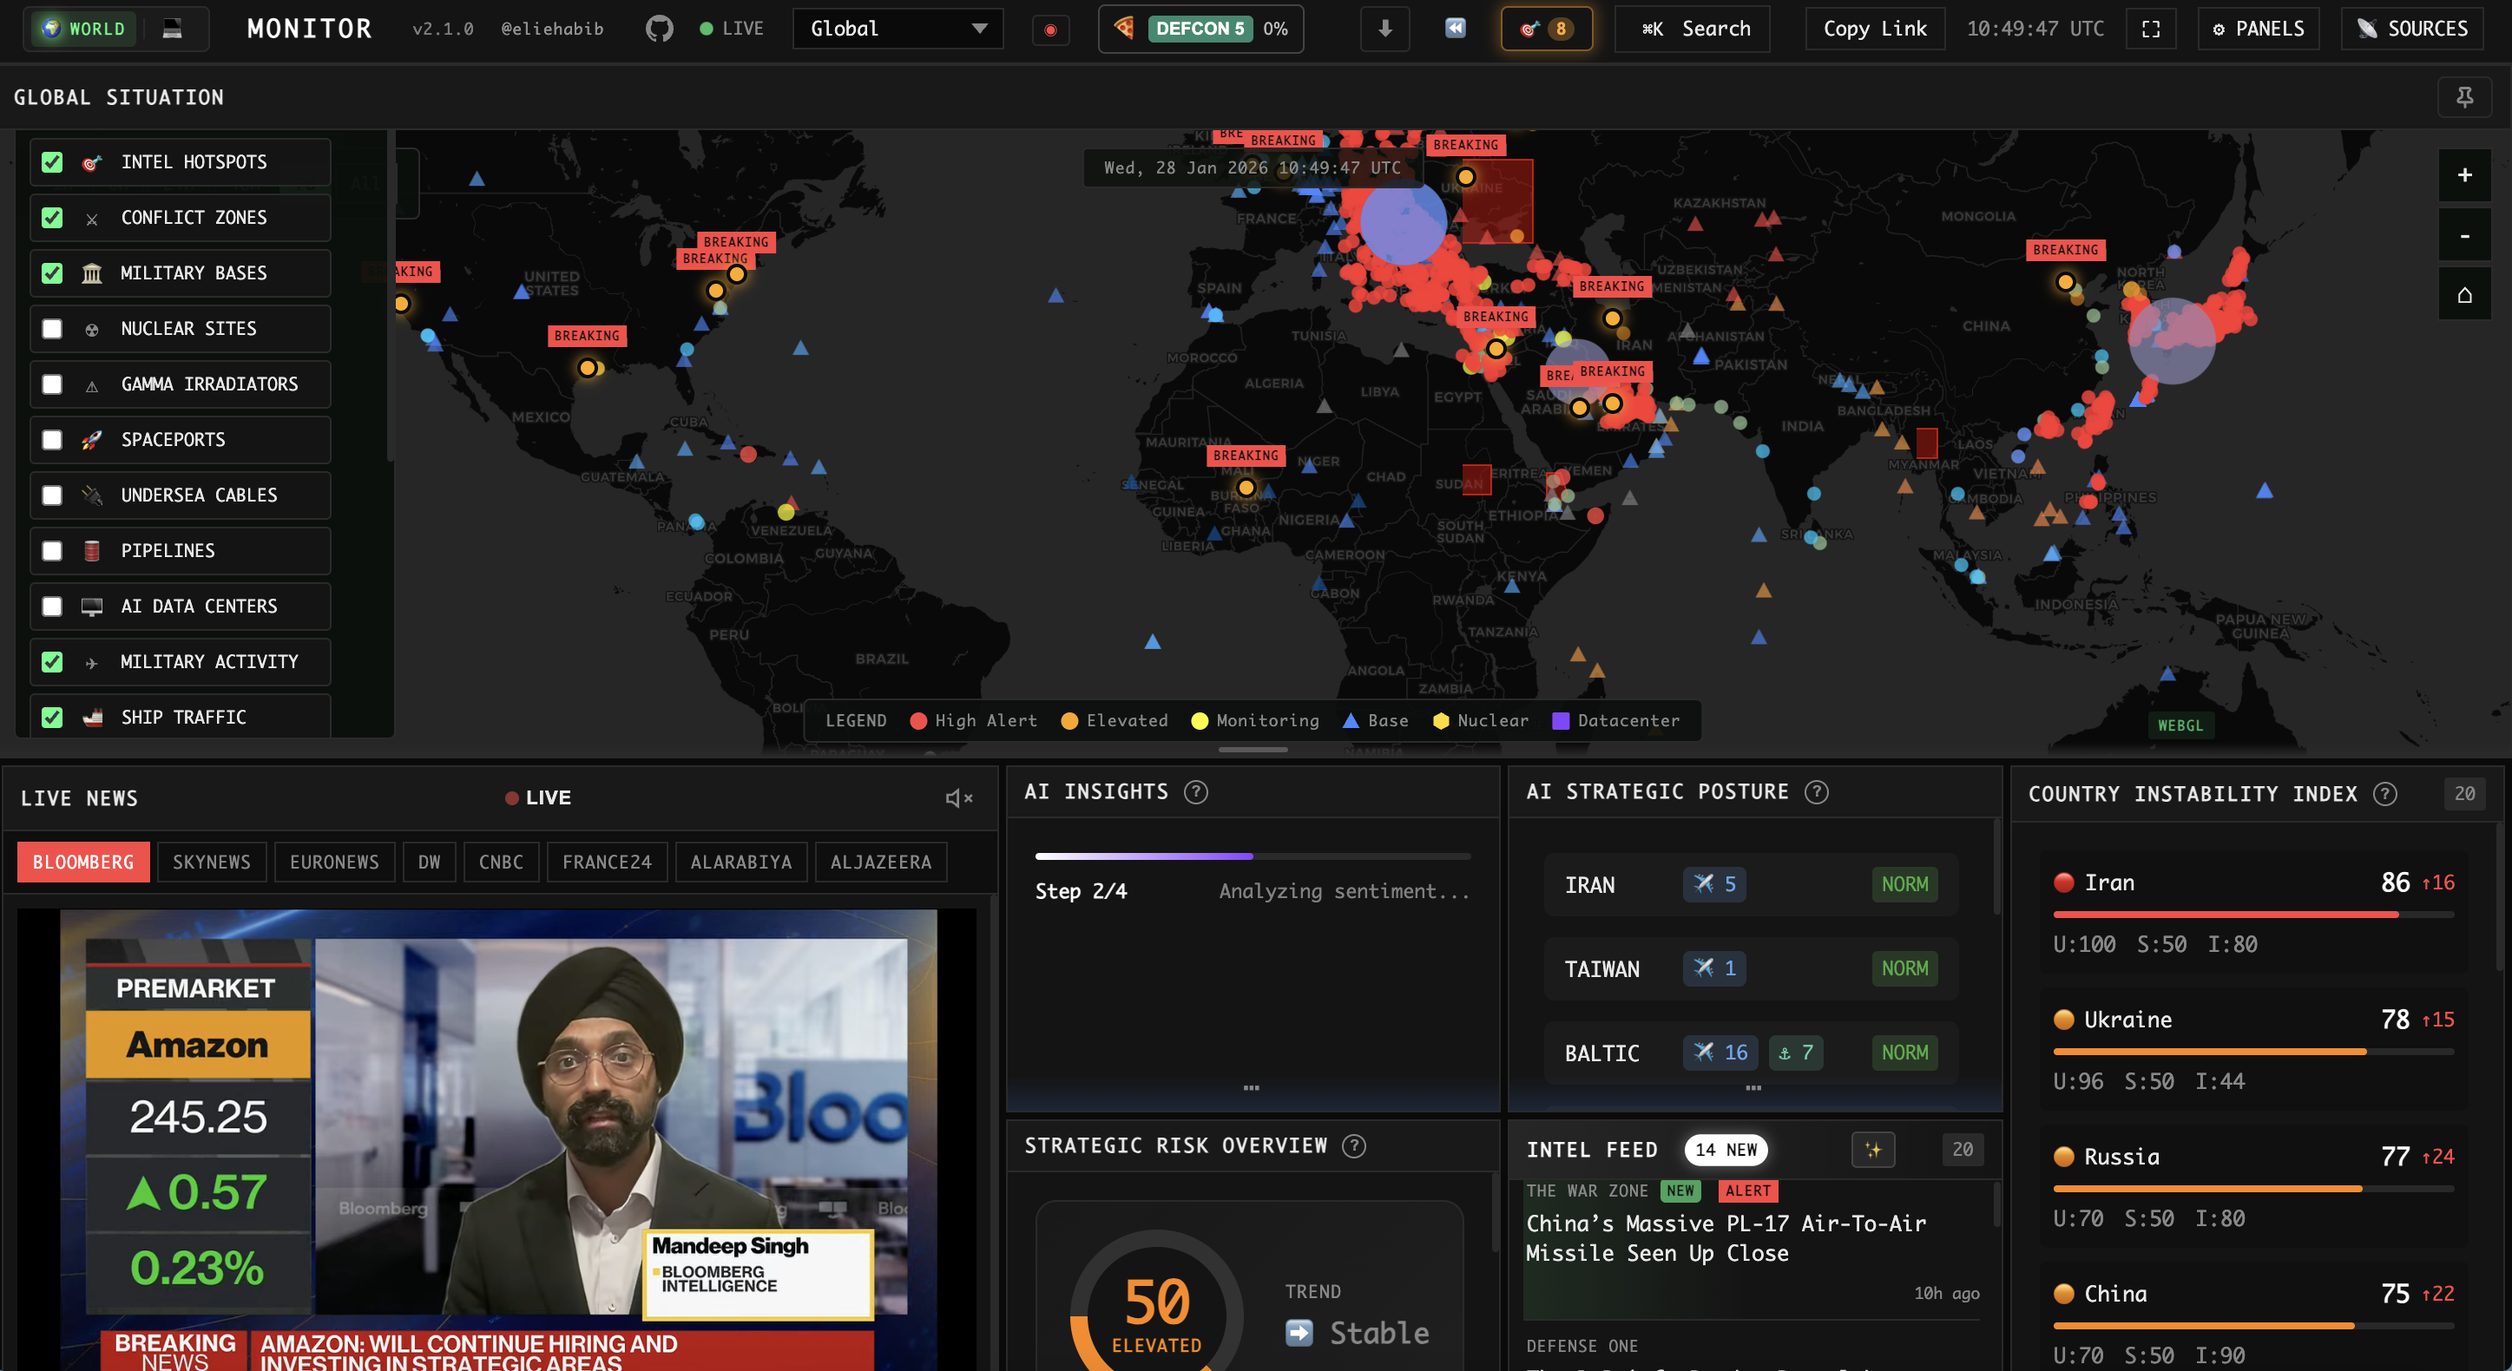
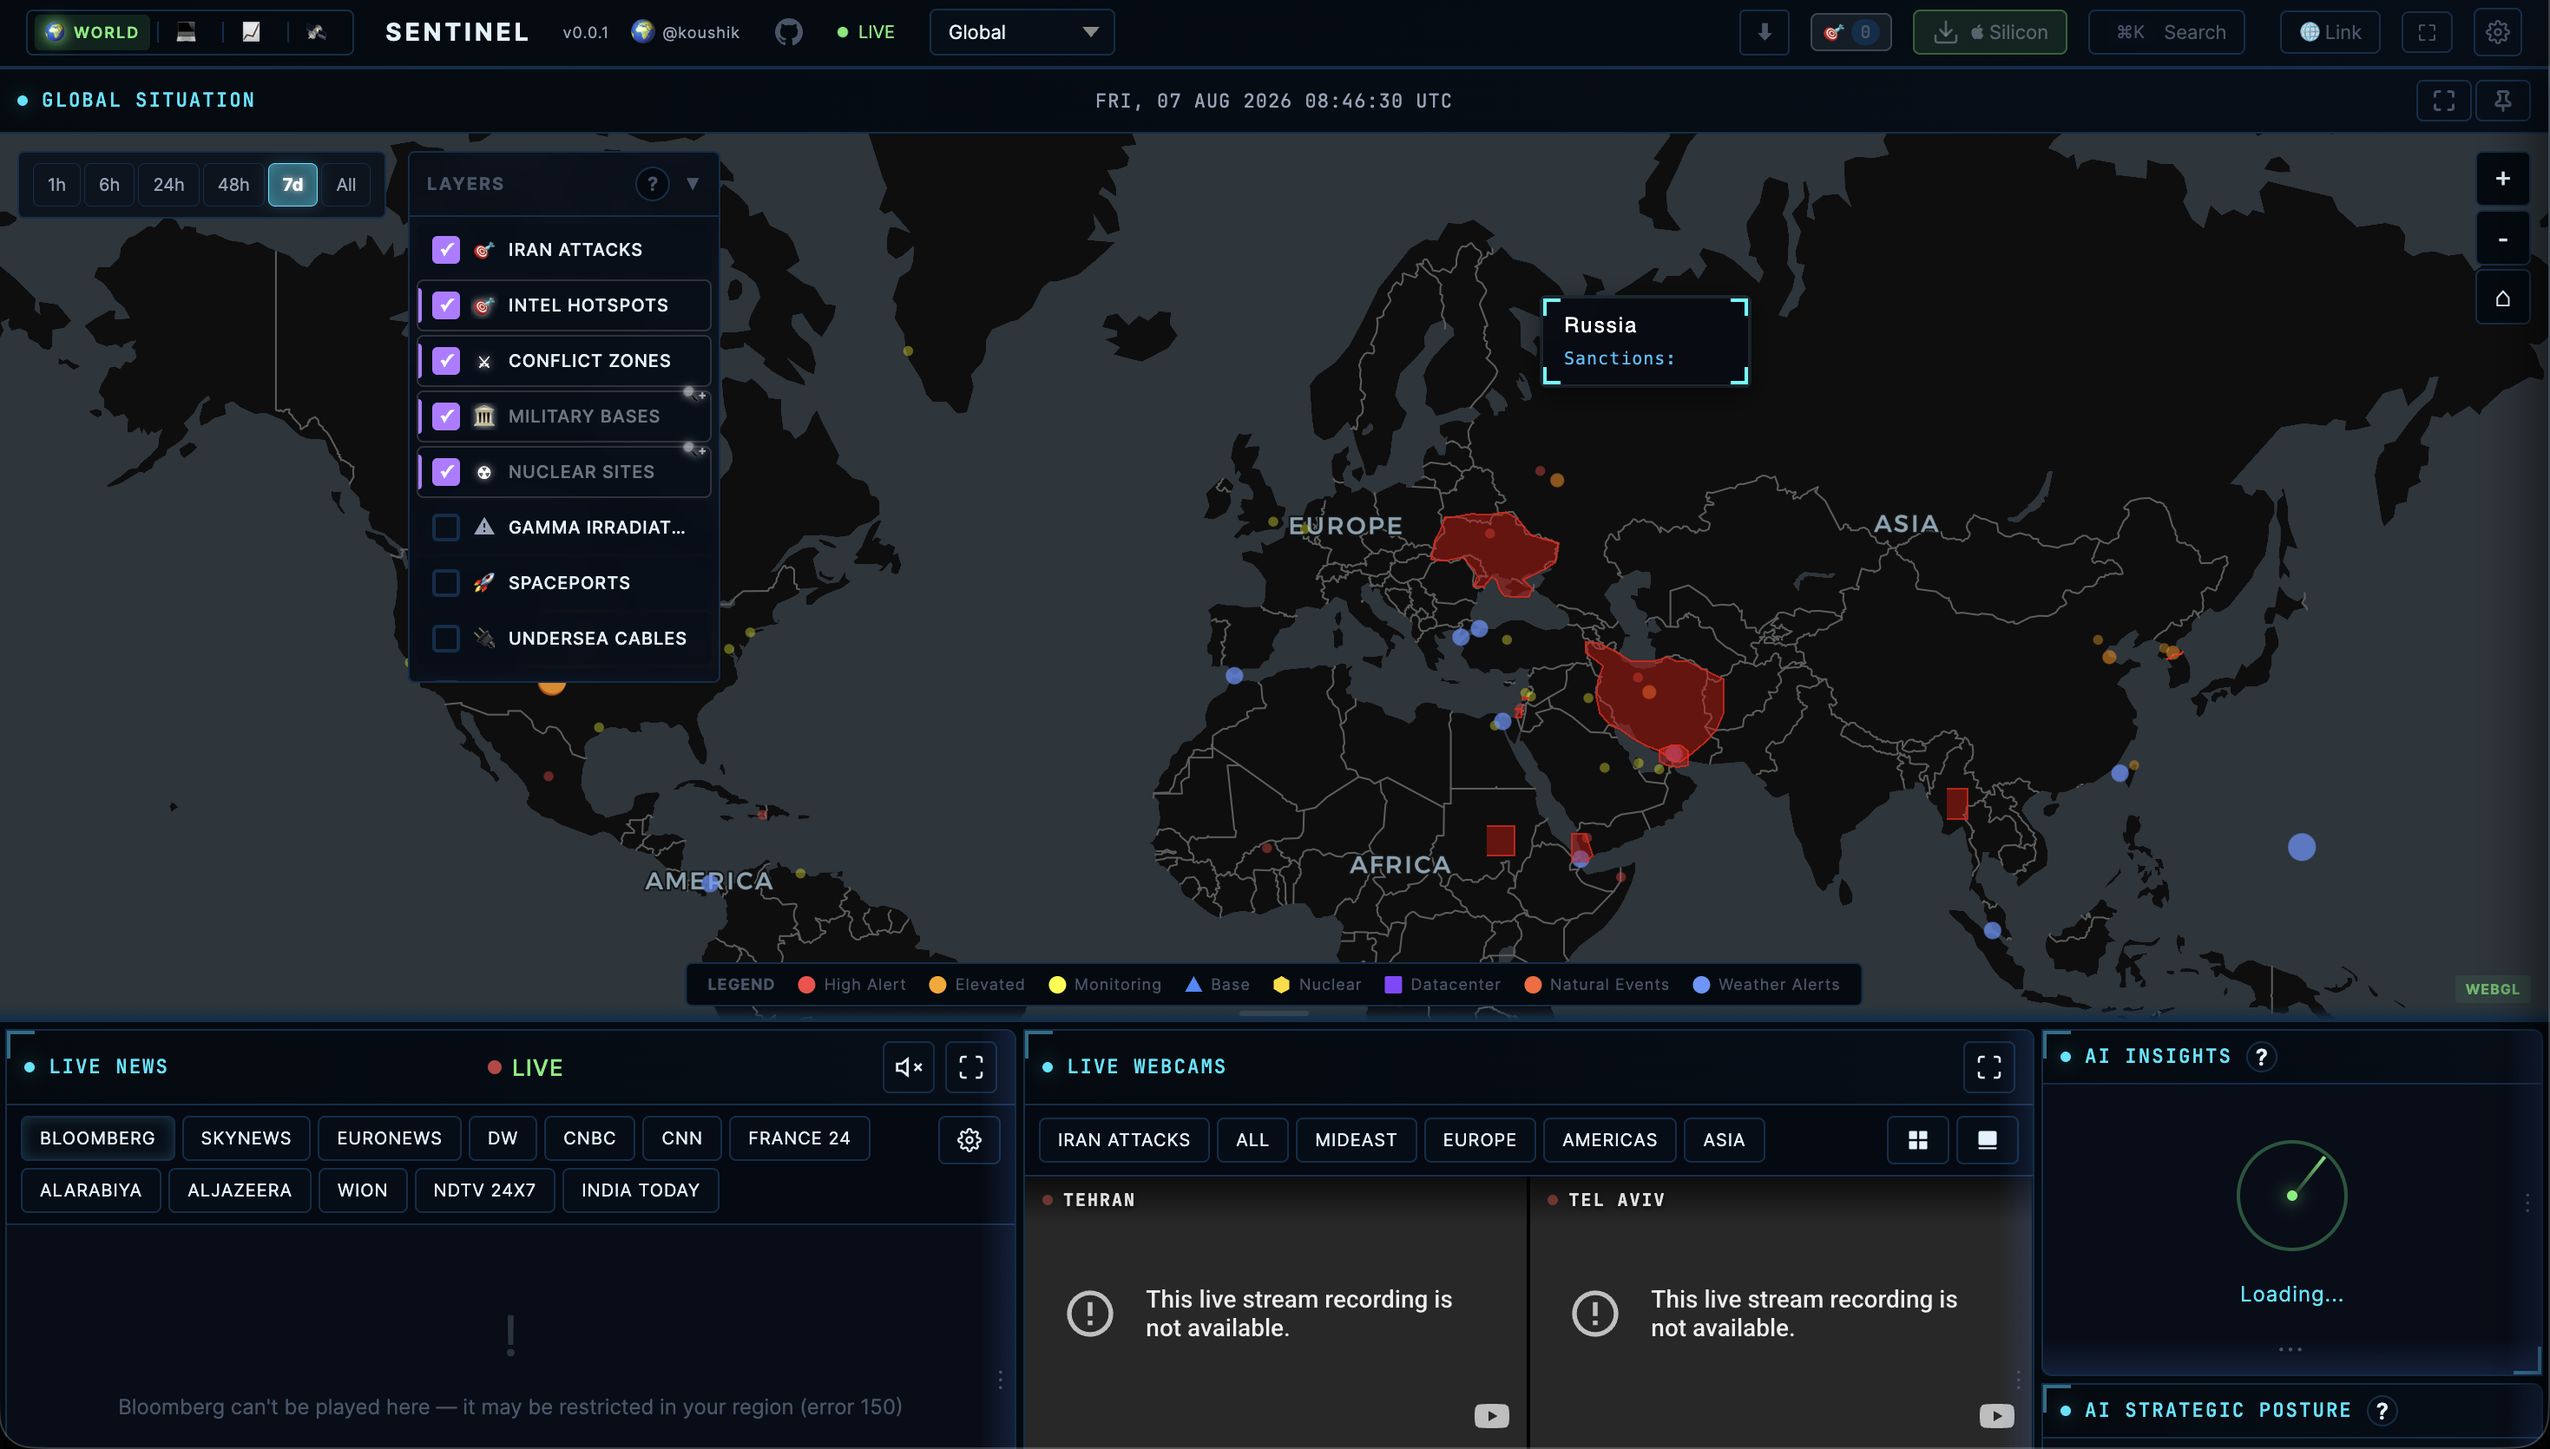
update images

diff --git a/README.md b/README.md
@@ -2,4 +2,5 @@
 
 **Real-time global intelligence dashboard** — AI-powered news aggregation, geopolitical monitoring, and infrastructure tracking in a unified situational awareness interface.
 
-![Sentinel Dashboard](new-world-monitor.png)
+![Sentinel- World Monitor Dashboard](new-world-monitor.png)
+![Sentinel Satellite Orbit Dashboard](satellite-dashboard.png)

diff --git a/docs/DOCUMENTATION.md b/docs/DOCUMENTATION.md
@@ -10,6 +10,7 @@ AI-powered real-time global intelligence dashboard aggregating news, markets, ge
 ![Version](https://img.shields.io/badge/version-2.5.1-blue)
 
 ![World Monitor Dashboard](../new-world-monitor.png)
+![Satellite Orbit Dashboard](../satellite-dashboard.png)
 
 ## Platform Variants
 

diff --git a/docs/Docs_To_Review/DOCUMENTATION.md b/docs/Docs_To_Review/DOCUMENTATION.md
@@ -10,6 +10,7 @@ AI-powered real-time global intelligence dashboard aggregating news, markets, ge
 ![Version](https://img.shields.io/badge/version-2.1.4-blue)
 
 ![World Monitor Dashboard](../new-world-monitor.png)
+![Satellite Orbit Dashboard](../satellite-dashboard.png)
 
 ## Platform Variants
 
